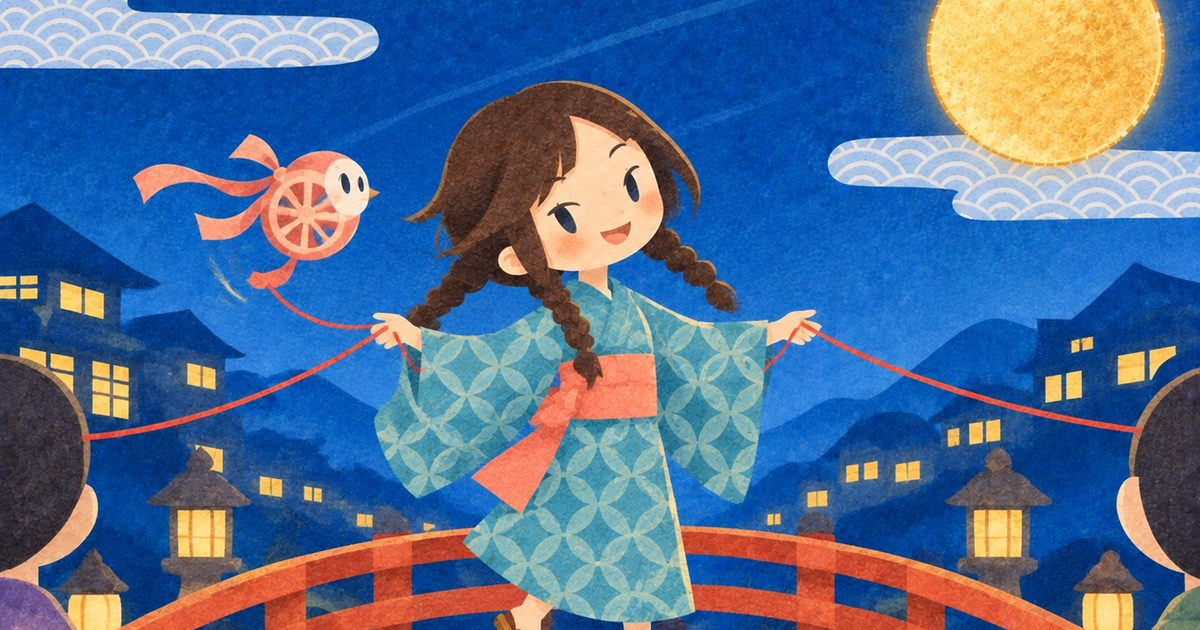
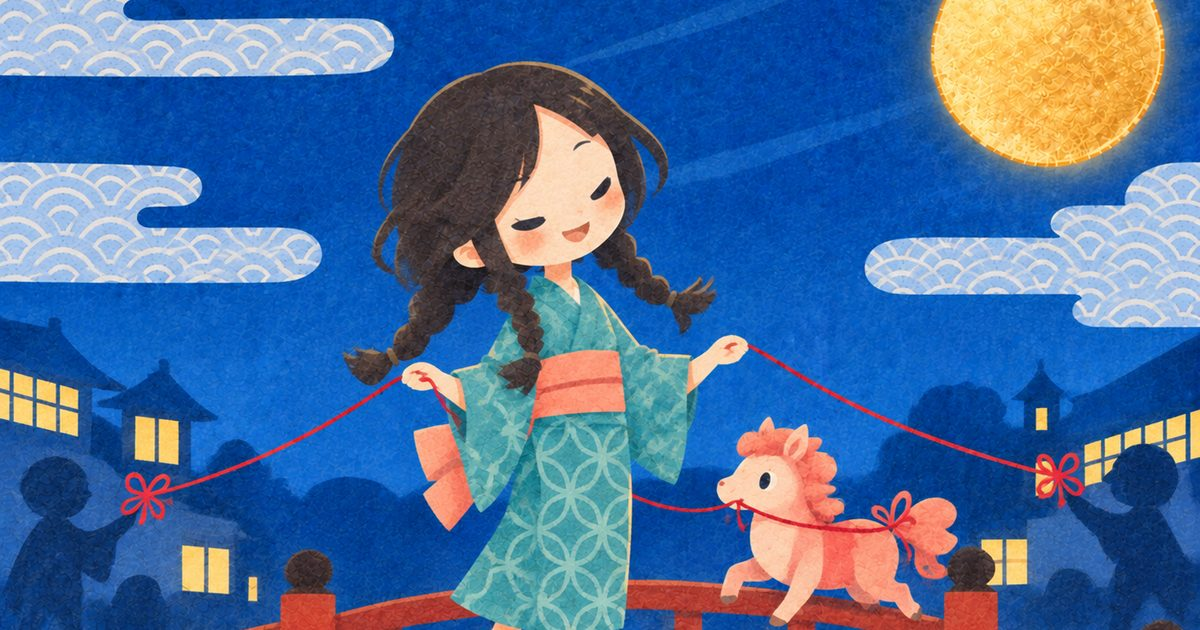
軫宿：相棒を子馬にした絵に差し替え
Claude-Session: https://claude.ai/code/session_01GxvdpZ8hzXuWo89DKiQL8V

diff --git a/public/mansions/chariot/index.html b/public/mansions/chariot/index.html
@@ -11,7 +11,7 @@
 <meta property="og:url" content="https://moonbondjp.win/mansions/chariot/">
 <meta property="og:title" content="Chariot Mansion (軫宿) in Shukuyō: Personality, Love, Career &amp; Compatibility | Moonbond">
 <meta property="og:description" content="Chariot Mansion (軫宿), &quot;The Graceful Connector&quot; in Japanese moon astrology. Light on your feet and welcome everywhere. See its personality, love and marriage, money, career, lucky habits and how it matches the other 26 mansions.">
-<meta property="og:image" content="https://moonbondjp.win/art/chars/chariot-og.jpg">
+<meta property="og:image" content="https://moonbondjp.win/art/chars/chariot-og.jpg?v=2">
 <meta name="twitter:card" content="summary_large_image">
 <link rel="preconnect" href="https://fonts.googleapis.com"><link rel="preconnect" href="https://fonts.gstatic.com" crossorigin>
 <link href="https://fonts.googleapis.com/css2?family=Shippori+Mincho:wght@500;700;800&family=Zen+Kaku+Gothic+New:wght@400;500;700&display=swap" rel="stylesheet">
@@ -113,7 +113,7 @@ footer a{text-decoration:none}footer a:hover{text-decoration:underline}
 <section class="hero"><div class="seal" style="background:#59B9C6;color:#1d1b27">軫</div>
 <div><p class="ey">Shukuyō moon sign · Shin-shuku</p><h1>Chariot Mansion <span lang="ja">軫宿</span></h1><p class="sub">The Graceful Connector. Light on your feet and welcome everywhere.</p></div>
 <div class="chips"><span class="chip">Sociable</span><span class="chip">Nimble</span><span class="chip">Considerate</span></div></section>
-<figure class="char"><img src="/art/chars/chariot.webp" alt="The Chariot Mansion girl in a Shinbashi-iro kimono, with her little obi spirit" width="1200" height="960" fetchpriority="high"></figure>
+<figure class="char"><img src="/art/chars/chariot.webp?v=2" alt="The Chariot Mansion girl in a Shinbashi-iro kimono, with her little obi spirit" width="1200" height="960" fetchpriority="high"></figure>
 
 <section class="card"><h2>Personality</h2><p>You read a room in seconds and move through it with ease, linking people who should know each other. Travel, trade and anything in motion bring you luck.</p><div class="bars"><b>Drive</b><span class="pbar"><i style="width:60%"></i></span><span class="pct">60<small>%</small></span><b>Heart</b><span class="pbar"><i style="width:100%"></i></span><span class="pct">100<small>%</small></span><b>Mind</b><span class="pbar"><i style="width:60%"></i></span><span class="pct">60<small>%</small></span><b>Calm</b><span class="pbar"><i style="width:60%"></i></span><span class="pct">60<small>%</small></span></div><p class="small">Scores are Moonbond's own reading of this mansion in the Shukuyō tradition, not statistics.</p></section>
 

diff --git a/public/full/index.html b/public/full/index.html
@@ -653,7 +653,7 @@ var GAPSCENE = [
 ];
 var SAMESCENE = ['You react to most things the same way, so you rarely need to explain yourselves.','たいていのことに同じように反応するので、説明しなくても通じ合える。'];
 var TRAITS = [['Drive','行動力'],['Heart','情'],['Mind','知性'],['Calm','落ち着き']];
-var CHARS = {'pleiades':1, 'net':1, 'beak':1, 'three-stars':1, 'well':1, 'spirit':2, 'rooftop':1, 'willow':2, 'star':2, 'drawn-bow':2, 'wings':2, 'chariot':1, 'horn':1, 'neck':1, 'root':1, 'chamber':1, 'heart':1, 'tail':2, 'winnowing-basket':1, 'dipper':1, 'maiden':1, 'void':1, 'hall':1, 'wall':1, 'stride':1, 'bond':1, 'granary':1};
+var CHARS = {'pleiades':1, 'net':1, 'beak':1, 'three-stars':1, 'well':1, 'spirit':2, 'rooftop':1, 'willow':2, 'star':2, 'drawn-bow':2, 'wings':2, 'chariot':2, 'horn':1, 'neck':1, 'root':1, 'chamber':1, 'heart':1, 'tail':2, 'winnowing-basket':1, 'dipper':1, 'maiden':1, 'void':1, 'hall':1, 'wall':1, 'stride':1, 'bond':1, 'granary':1};
 function charSlug(idx){ return M[idx][2].toLowerCase().replace(/[^a-z]+/g, '-'); }
 function freeExtras(a, b, key, pk){
   var ma = M[a], mb = M[b], ja = MJ[a], jb = MJ[b], i;

diff --git a/public/index.html b/public/index.html
@@ -1367,7 +1367,7 @@ function renderFreeExtras(a, b, key, pk){
 }
 
 /* ---------- character art（できた宿から順に /art/chars/ に置く） ---------- */
-var CHARS = {'pleiades':1, 'net':1, 'beak':1, 'three-stars':1, 'well':1, 'spirit':2, 'rooftop':1, 'willow':2, 'star':2, 'drawn-bow':2, 'wings':2, 'chariot':1, 'horn':1, 'neck':1, 'root':1, 'chamber':1, 'heart':1, 'tail':2, 'winnowing-basket':1, 'dipper':1, 'maiden':1, 'void':1, 'hall':1, 'wall':1, 'stride':1, 'bond':1, 'granary':1};
+var CHARS = {'pleiades':1, 'net':1, 'beak':1, 'three-stars':1, 'well':1, 'spirit':2, 'rooftop':1, 'willow':2, 'star':2, 'drawn-bow':2, 'wings':2, 'chariot':2, 'horn':1, 'neck':1, 'root':1, 'chamber':1, 'heart':1, 'tail':2, 'winnowing-basket':1, 'dipper':1, 'maiden':1, 'void':1, 'hall':1, 'wall':1, 'stride':1, 'bond':1, 'granary':1};
 function charSlug(idx){ return M[idx][2].toLowerCase().replace(/[^a-z]+/g, '-'); }
 function hasChar(idx){ return !!CHARS[charSlug(idx)]; }
 /* 絵を差し替えたら CHARS の数字を上げる（ブラウザに残った古い絵を読み直させるため） */
